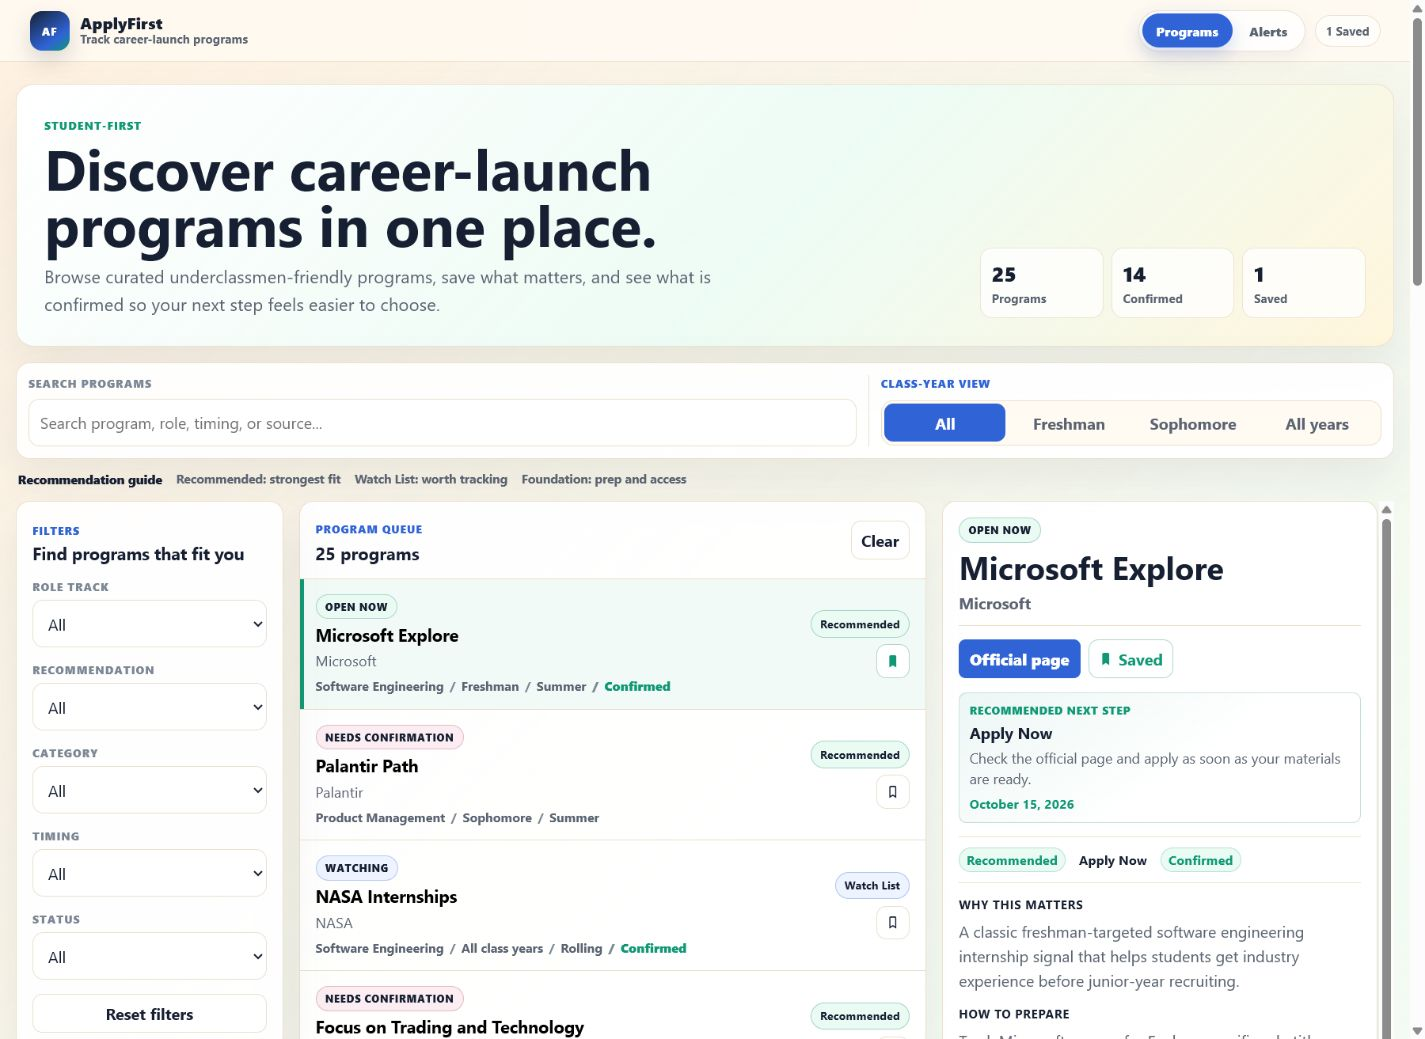
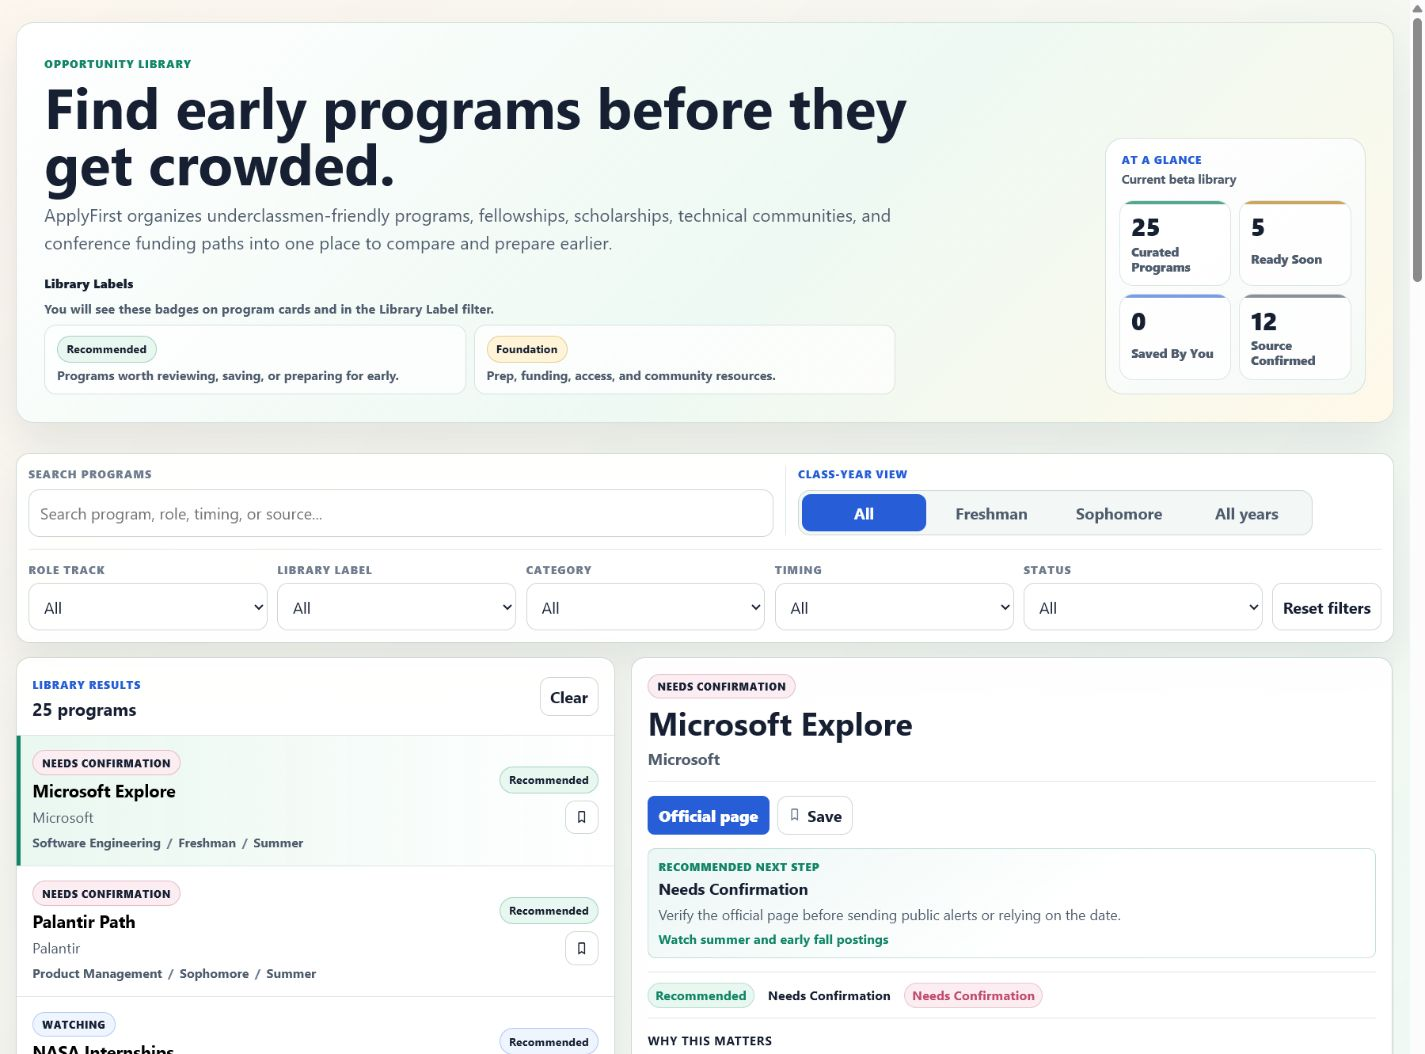
Update ApplyFirst portfolio screenshots

diff --git a/src/portfolioData.js b/src/portfolioData.js
@@ -297,12 +297,13 @@ export const projects = [
     description:
       'An early-career opportunity system in private beta, built to help students discover, track, and prepare for high-signal programs before applications open.',
     image: '/assets/project-applyfirst-programs-desktop.png',
-    imageAlt: 'ApplyFirst programs page showing searchable early-career opportunity records, filters, and status labels.',
+    imageFrame: 'desktop',
+    imageAlt: 'ApplyFirst programs page showing searchable opportunity records, filters, shortlist actions, and status labels.',
     problem: 'High-value internships, fellowships, insight programs, scholarships, and career-launch opportunities are scattered across lists and official pages, so students often find them too late.',
     user: 'First-year, sophomore, and emerging technical students looking for SWE, product, quant, finance tech, data, AI, fellowship, conference, and prep opportunities.',
     role: 'Product strategist, frontend MVP builder, data-model designer, and opportunity systems researcher.',
     learned: 'A useful opportunity product is not just a list. It needs timing, eligibility, confidence, verification, and next-action guidance.',
-    proof: 'Built a standalone React/Vite MVP direction with searchable records, role and class-year filters, shortlist behavior, confidence labels, alert-readiness framing, and source-signal notes.',
+    proof: 'Built a standalone React/Vite MVP direction with searchable records, student preference filters, shortlist behavior, confidence labels, contribution flow, and alert-readiness framing.',
     tags: ['React', 'Vite', 'Career tech', 'Data modeling', 'Product strategy'],
   },
 ];

diff --git a/src/main.jsx b/src/main.jsx
@@ -925,6 +925,7 @@ function ProjectCard({ title, mark, status, description, image, imageFit, imageF
   const visualClasses = [
     'project-visual',
     imageFit === 'contain' ? 'project-visual-contain' : '',
+    imageFrame === 'desktop' ? 'project-visual-desktop' : '',
     imageFrame === 'phone' ? 'project-visual-phone' : '',
   ].filter(Boolean).join(' ');
 

diff --git a/src/styles.css b/src/styles.css
@@ -1804,6 +1804,11 @@ li {
   object-fit: contain;
 }
 
+.project-visual-desktop img {
+  aspect-ratio: 1425 / 1054;
+  object-fit: cover;
+}
+
 .project-visual-phone {
   justify-self: center;
   width: min(280px, 100%);
